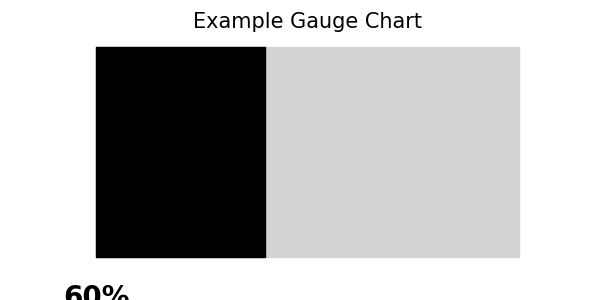
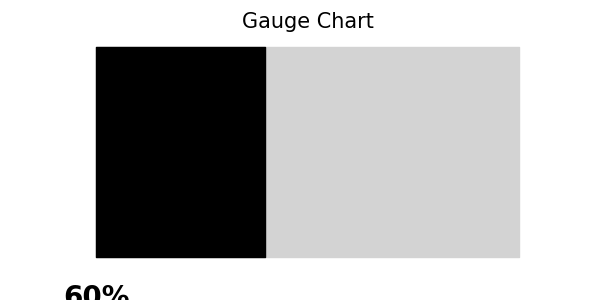
修改 - python圖表

Changed region(s): [[0.3, 0.03, 0.72, 0.12]]

diff --git a/python/script/diagramTest.py b/python/script/diagramTest.py
@@ -2,24 +2,25 @@ import matplotlib.pyplot as plt
 import numpy as np
 import io
 
-def generate_chart(x_values, y_values=None, chart_type='line', title='Example Chart', xlabel='x', ylabel='y', color='blue', save_to_file=False, file_name='chart.png'):
-    # Validate chart_type
+def generate_chart(x_values, y_values=None, chart_type='line', title='Chart', xlabel='x', ylabel='y', color='blue', save_to_file=False, file_name='chart.png'):
+    # 驗證圖表類型
     if chart_type not in ['line', 'bar', 'scatter', 'gauge']:
         raise ValueError("Unsupported chart type: choose from 'line', 'bar', 'scatter', or 'gauge'")
 
-    # Validate x_values
+    # 驗證 x_values
     if not isinstance(x_values, (list, np.ndarray)) and chart_type != 'gauge':
         raise TypeError("x_values must be a list or numpy array")
 
-    # Validate y_values
+    # 驗證 y_values
     if y_values is not None and not isinstance(y_values, (list, np.ndarray)):
         raise TypeError("y_values must be a list or numpy array")
 
-    # Validate length of x_values and y_values
+    # 驗證 x_values 和 y_values 的長度
     if y_values is not None and len(x_values) != len(y_values):
         raise ValueError("x_values and y_values must have the same length")
 
-    # Validate save_to_file
+    # 驗證 save_to_file
+
     if not isinstance(save_to_file, bool):
         raise TypeError("save_to_file must be a boolean")
 
@@ -51,7 +52,7 @@ def generate_chart(x_values, y_values=None, chart_type='line', title='Example Ch
     return image_binary
 
 def create_gauge_chart(value, title='Gauge Chart', save_to_file=False, file_name='gauge_chart.png'):
-    # Validate value
+    # 驗證 value
     if not isinstance(value, (int, float)) or not (0 <= value <= 100):
         raise ValueError("value must be a number between 0 and 100")
 
@@ -119,7 +120,7 @@ bar_chart_data = generate_chart(
     x_values=bar_x_values,
     y_values=bar_y_values,
     chart_type='bar',
-    title='Random Bar Chart',
+    title='Bar Chart',
     xlabel='Category',
     ylabel='Value',
     color='green',
@@ -134,7 +135,7 @@ print("Bar Chart Data:", bar_chart_data.hex())
 gauge_chart_data = generate_chart(
     x_values=60,  # 設置儀表值
     chart_type='gauge',
-    title='Example Gauge Chart',
+    title='Gauge Chart',
     save_to_file=True,
     file_name='gauge_chart.png'
 )
